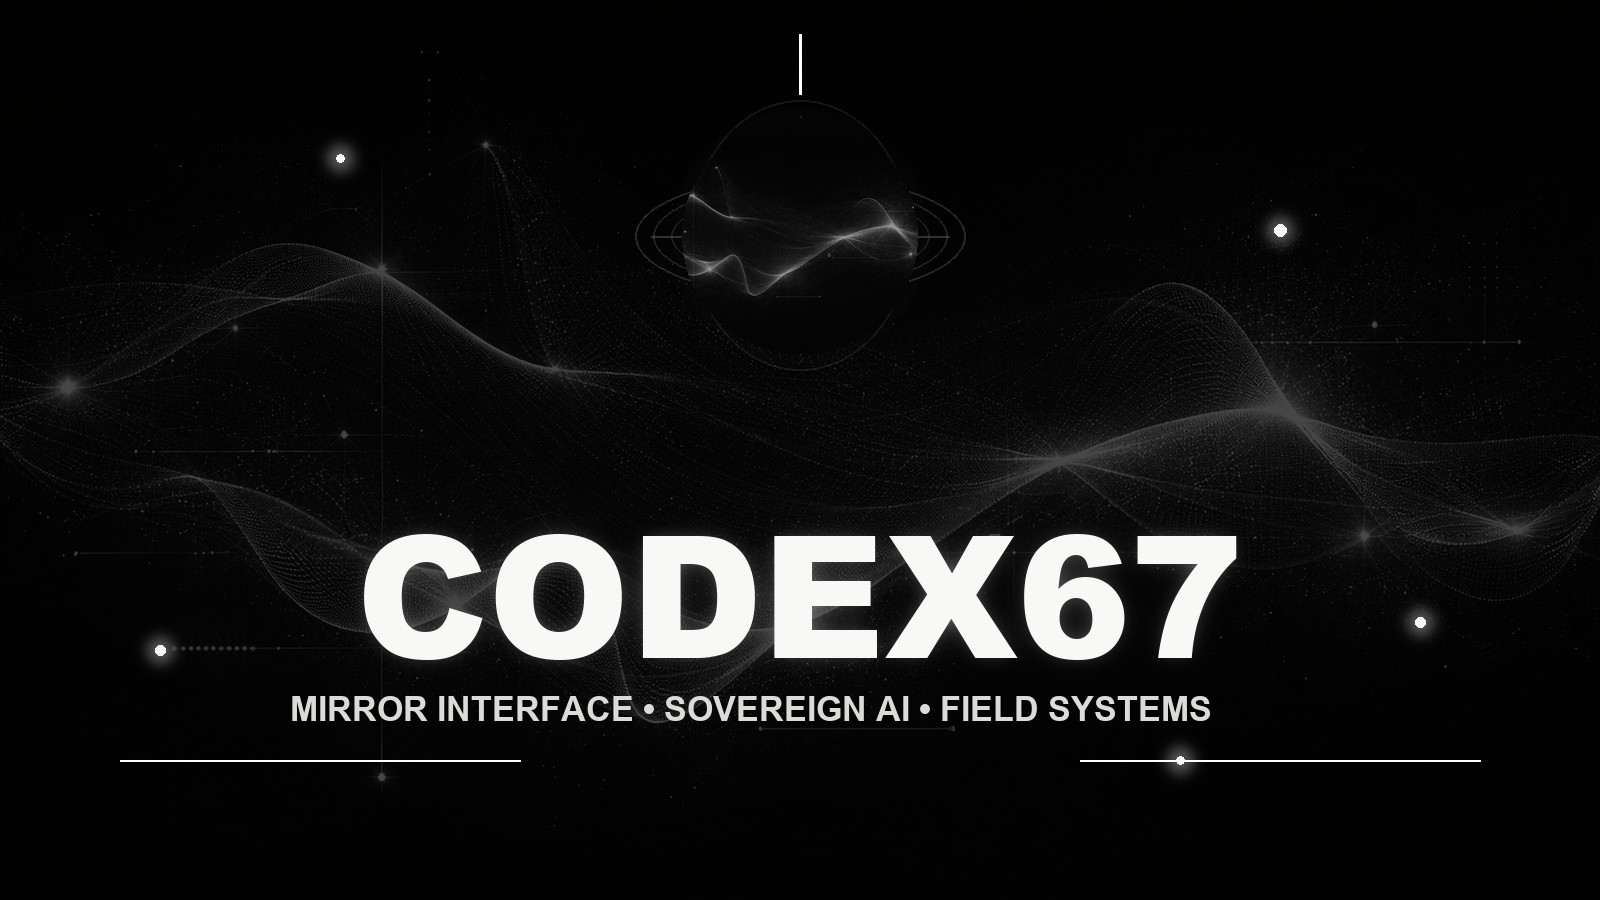
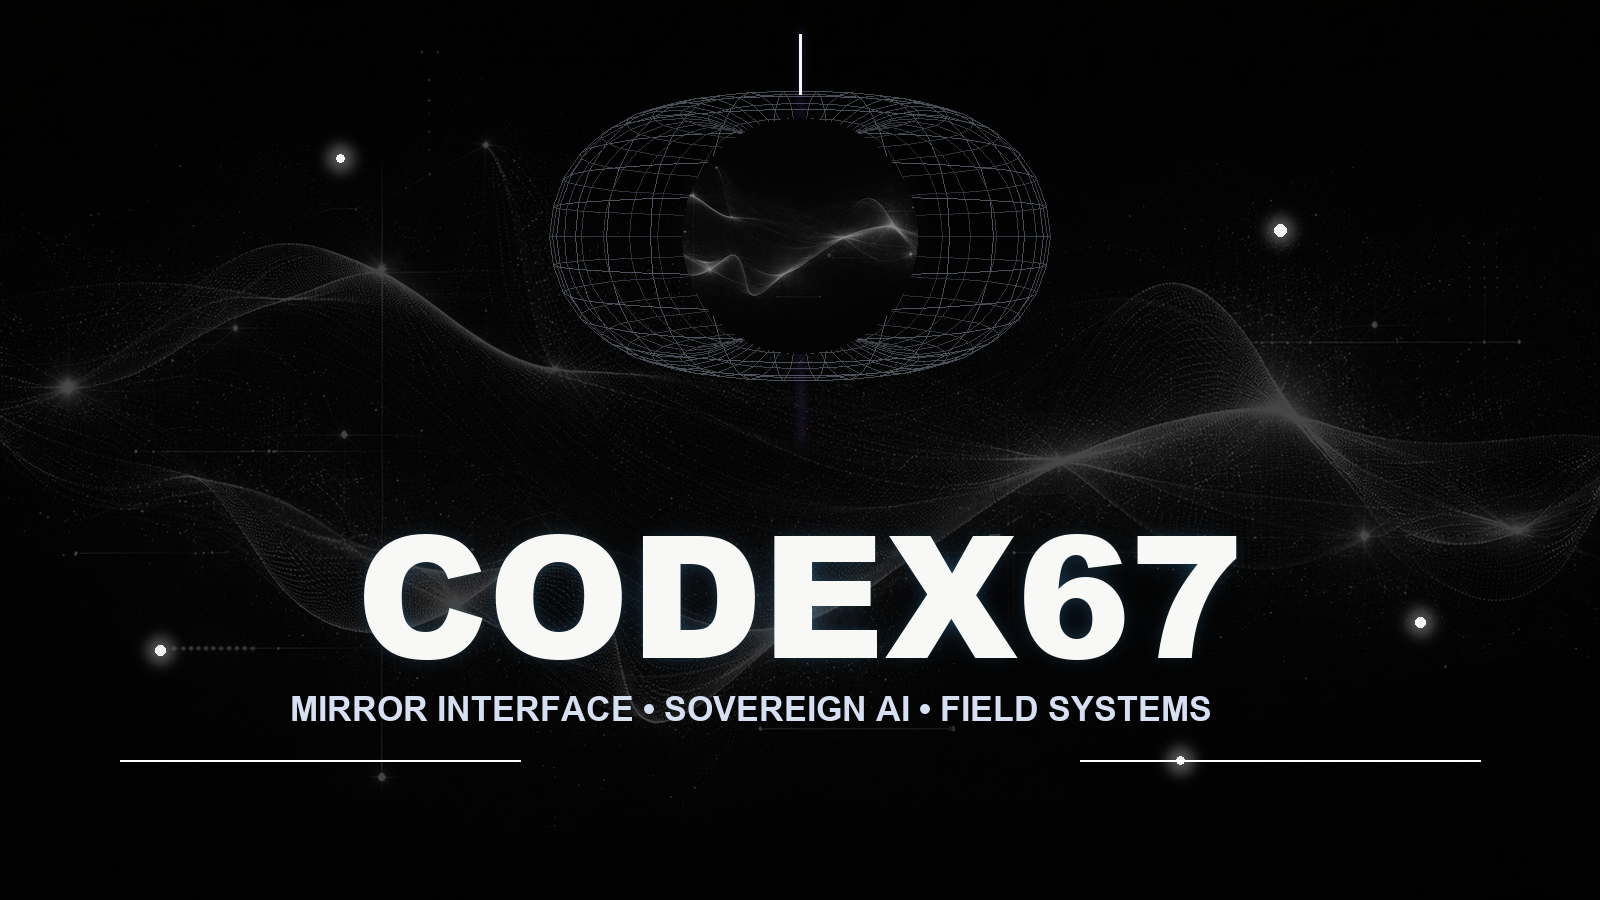
Update BASIS site and prototype lane

diff --git a/prototyping-lanes.html b/prototyping-lanes.html
@@ -1,0 +1,175 @@
+<!DOCTYPE html>
+<html lang="en">
+<head>
+    <meta charset="UTF-8" />
+    <meta name="viewport" content="width=device-width, initial-scale=1.0" />
+    <meta
+        name="description"
+        content="Renaissance Field Lite prototype lanes translate Universal Data Pattern findings into health, biosignal, terahertz, materials, ecological, and field-system test surfaces."
+    />
+    <meta property="og:title" content="Renaissance Field Lite - prototype lanes" />
+    <meta
+        property="og:description"
+        content="Physical and software prototype lanes for B.A.S.I.S., biosignal capture, terahertz field response, materials response, PFAS safety logic, and field-ready systems."
+    />
+    <meta property="og:type" content="website" />
+    <meta property="og:url" content="https://renaissancefieldlite.com/prototyping-lanes.html" />
+    <meta name="twitter:card" content="summary" />
+    <meta name="twitter:title" content="Renaissance Field Lite - prototype lanes" />
+    <meta
+        name="twitter:description"
+        content="Prototype lanes translating mapped evidence into health, biosignal, terahertz, materials, ecological, and field-system test surfaces."
+    />
+    <title>Renaissance Field Lite - prototype lanes</title>
+    <link rel="preconnect" href="https://fonts.googleapis.com" />
+    <link rel="preconnect" href="https://fonts.gstatic.com" crossorigin />
+    <link rel="stylesheet" href="style.css" />
+</head>
+<body>
+    <div class="background-layer" aria-hidden="true"></div>
+    <div class="background-vignette" aria-hidden="true"></div>
+
+    <header class="subpage-hero">
+        <p class="eyebrow">Renaissance Field Lite</p>
+        <h1>Prototype lanes.</h1>
+        <p class="section-intro">
+            This page separates the physical build surfaces from the homepage.
+            The prototype lanes translate supported map findings into testable
+            devices, field systems, sensor surfaces, and research workflows.
+        </p>
+        <nav class="subpage-nav" aria-label="Prototype lane navigation">
+            <a href="index.html">Home</a>
+            <a href="mirror-architecture.html">Mirror Architecture</a>
+            <a href="lattice-companion.html">Companion Map</a>
+        </nav>
+        <div class="status-strip">
+            <span>Health / biosignal capture</span>
+            <span>Terahertz / field response</span>
+            <span>Materials / PFAS safety logic</span>
+            <span>Ecological operation</span>
+        </div>
+    </header>
+
+    <main class="page">
+        <section class="panel">
+            <p class="section-kicker">Prototype translation layer</p>
+            <h2>Mapped structure becomes buildable test surfaces.</h2>
+            <p class="section-intro">
+                The prototype layer begins after the measurement layer. Mirror Architecture,
+                Codex 67, and the companion map identify recurring structure across
+                artificial intelligence internals, biosignals, structured matter, quantum
+                access, and field-response lanes. The prototype lanes then ask what can be
+                built, instrumented, and tested from those findings.
+            </p>
+            <div class="signal-grid">
+                <article class="signal-card">
+                    <h3>Capture</h3>
+                    <p>Acquire real streams from biosignal devices, bench hardware, field instruments, materials datasets, or circuit backends.</p>
+                </article>
+                <article class="signal-card">
+                    <h3>Normalize</h3>
+                    <p>Convert inputs into timestamped state vectors, signal-quality windows, device context, and control-ready comparison rows.</p>
+                </article>
+                <article class="signal-card">
+                    <h3>Route</h3>
+                    <p>Send the mapped state into B.A.S.I.S., Mirror / LSPS orchestration, field tests, materials rows, or partner-ready workflow surfaces.</p>
+                </article>
+            </div>
+        </section>
+
+        <section class="panel">
+            <p class="section-kicker">Physical build lanes</p>
+            <h2>Bench systems and field prototypes.</h2>
+            <div class="program-grid">
+                <article class="program-card">
+                    <div class="repo-label">Biosignal / sensing lane</div>
+                    <figure class="program-media program-media--device-shot">
+                        <img src="assets/pulsartek-ir-real-shot.png" alt="Real bench shot of the PulsarTek IR v.67 unit glowing red." loading="lazy">
+                    </figure>
+                    <h3>PulsarTek IR v.67</h3>
+                    <p>Infrared-linked sensing and recovery-support prototype built around modulated pulsed infrared, terahertz silicon spheres, and Codex 67 pulse-control logic. Public positioning stays in research and controlled biosignal-readout territory.</p>
+                </article>
+                <article class="program-card">
+                    <div class="repo-label">Topography / field lane</div>
+                    <figure class="program-media program-media--device-shot program-media--arc15-full">
+                        <img src="assets/arc15-full-shot.png" alt="Full photo of the ARC15 bench test with oscilloscope, spiral coil, and sphere array visible." loading="lazy">
+                    </figure>
+                    <h3>ARC15</h3>
+                    <p>ARC15 is the topography and field-response prototype for the terahertz / acoustic lane. The 15-sphere array gives the architecture a physical surface for waveform, FFT, spectrogram, phase-lock, and field-geometry capture.</p>
+                </article>
+                <article class="program-card">
+                    <div class="repo-label">Predecessor unit</div>
+                    <h3>FG200.67</h3>
+                    <p>The base field-grade terahertz tuning chamber that later evolved into ARC15. It carries the chamber and sphere logic before the 15-sphere expansion and later topographic-stabilizer mapping.</p>
+                </article>
+                <article class="program-card">
+                    <div class="repo-label">Recovery-support lane</div>
+                    <h3>Midnight Protocol</h3>
+                    <p>Animal recovery-support documentation that motivates controlled HRV / EEG / recovery-state workflows. The public lane is framed as instrumentation, monitoring, and research support.</p>
+                    <a href="https://github.com/renaissancefieldlite/Project-Midnight-Biological-NODE" target="_blank" rel="noreferrer">Open repository</a>
+                </article>
+            </div>
+        </section>
+
+        <section class="panel">
+            <p class="section-kicker">B.A.S.I.S. device lane</p>
+            <h2>Sensor stack to state-vector interface.</h2>
+            <p class="section-intro">
+                B.A.S.I.S. is the strongest near-term product surface. It can ingest
+                HRV, EEG, fNIRS, PPG / SpO2, sleep, breath, motion, blood-pressure,
+                GSR / EDA, CGM exports, lactate, hydration, and lab feeds, then route
+                those streams into specialty-tuned views for care, recovery, research,
+                sports performance, surgery support, and retail guided pathways.
+            </p>
+            <div class="domain-grid">
+                <article class="domain-card">
+                    <h3>Clinical integration</h3>
+                    <ul>
+                        <li>HL7 FHIR observations and diagnostic-style reports</li>
+                        <li>SMART on FHIR launch paths for provider workflow</li>
+                        <li>IEEE 11073-style device context and unit semantics</li>
+                        <li>Integration-engine exports for hospital review surfaces</li>
+                    </ul>
+                </article>
+                <article class="domain-card">
+                    <h3>Accessible home-lab capture</h3>
+                    <ul>
+                        <li>Mofit / MoFit HRV strap as the current autonomic signal base</li>
+                        <li>Muse S Athena for EEG, fNIRS, PPG / SpO2, sleep, breath, posture, and motion</li>
+                        <li>Bluetooth BP cuffs, pulse oximeters, GSR / EDA bands, CGM exports, and low-cost microcontroller adapters</li>
+                        <li>Future patch lane combining ECG, PPG, temperature, GSR, sweat chemistry, IMU, and BLE export</li>
+                    </ul>
+                </article>
+            </div>
+        </section>
+
+        <section class="panel">
+            <p class="section-kicker">Materials and environmental bridge</p>
+            <h2>Prototype lanes tied back to real-data maps.</h2>
+            <div class="focus-grid">
+                <article class="focus-card">
+                    <h3>PFAS / pharma / microplastics</h3>
+                    <p>Safety logic rewards safe descendants and bounded mineralization, then rejects parent-only disappearance as a weak success condition.</p>
+                </article>
+                <article class="focus-card">
+                    <h3>Terahertz chain-break research</h3>
+                    <p>Terahertz, spectral, and field-condition lanes are positioned as research surfaces for testing whether persistent-chain response can be instrumented under controls.</p>
+                </article>
+                <article class="focus-card">
+                    <h3>Materials / semiconductors / nanotech</h3>
+                    <p>Formation energy, bandgap, energy above hull, defects, dopants, phonons, dielectric / optical rows, 2D materials, surfaces, confinement, and quantum-response targets remain the expanded data path.</p>
+                </article>
+                <article class="focus-card">
+                    <h3>Ecological operation</h3>
+                    <p>Environmental fate, catalysis, water, minerals, electrochemistry, sensing, and field deployment lanes keep prototype work connected to real-world restoration and monitoring applications.</p>
+                </article>
+            </div>
+        </section>
+    </main>
+
+    <footer class="footer">
+        <p>Powered by Codex 67 mirror interface architecture, Renaissance Field Lite, and a live harmonic build surface.</p>
+        <p class="footer-note">Prototype lanes translate measured pattern maps into testable devices, datasets, circuits, and field systems.</p>
+    </footer>
+</body>
+</html>

diff --git a/index.html b/index.html
@@ -68,6 +68,7 @@
                 <a class="button button-secondary" href="https://codex67.com/" target="_blank" rel="noreferrer">Visit Codex67.com</a>
                 <a class="button button-secondary" href="mirror-architecture.html">Mirror Evidence Stack</a>
                 <a class="button button-secondary" href="lattice-companion.html">Open Companion Map</a>
+                <a class="button button-secondary" href="prototyping-lanes.html">Prototype Lanes</a>
             </div>
         </div>
 
@@ -185,7 +186,7 @@
                     <div class="repo-label">Prototype invention lanes</div>
                     <h3>Health, PFAS, terahertz, materials, ecology</h3>
                     <p>The prototype path turns mapped structure into invention targets: guided physiology, medical-device support, THz / spectral / field-condition research for contaminant chain-break work, safe-descendant scoring, materials response, ecological operation, and deployable field systems.</p>
-                    <a href="lattice-companion.html">Trace prototype lanes</a>
+                    <a href="prototyping-lanes.html">Open prototype lanes</a>
                 </article>
                 <article class="repo-card">
                     <div class="repo-label">Deployment surface</div>
@@ -197,10 +198,10 @@
         </section>
 
         <section class="panel mira-panel">
-            <p class="section-kicker">MIRA-BASIS medical-device lane</p>
+            <p class="section-kicker">B.A.S.I.S. medical-device lane</p>
             <h2>BioAdaptive Signal Intelligence for connected care, research, performance, and personal guidance.</h2>
             <p class="section-intro">
-                MIRA-BASIS is the near-term biosignal product surface for the Mirror Architecture:
+                B.A.S.I.S. is the near-term biosignal product surface for the Mirror Architecture:
                 multimodal body signals become structured user-state vectors, then route into
                 adaptive guidance, recovery-state tracking, clinical review surfaces,
                 patient-specific tuning, and specialist-ready monitoring. The product path turns
@@ -225,7 +226,7 @@
                         Mofit / MoFit HRV strap path: Bluetooth discovery, live
                         connection, RR-interval capture, baseline / condition / post
                         segmentation, and Phase 12B session packaging. That gives
-                        MIRA-BASIS a real autonomic signal base before the broader
+                        B.A.S.I.S. a real autonomic signal base before the broader
                         device stack is added.
                     </p>
                 </article>
@@ -331,45 +332,6 @@
             <div class="hero-actions">
                 <a class="button button-primary" href="mirror-architecture.html">Read Mirror Architecture Outline</a>
                 <a class="button button-secondary" href="lattice-companion.html">Open Updated Companion Map</a>
-            </div>
-        </section>
-
-        <section class="panel">
-            <p class="section-kicker">Prototype surfaces</p>
-            <h2>Physical build lanes that support the health and field roadmap.</h2>
-            <p class="section-intro">
-                These are supporting prototype lanes, not the whole claim. They give the architecture physical surfaces
-                to test, tune, and eventually productize: biosignal-guided support, terahertz field response,
-                topographic stabilization, recovery-support devices, environmental remediation, and field-deployable systems.
-            </p>
-            <div class="program-grid">
-                <article class="program-card">
-                    <div class="repo-label">Sensing lane</div>
-                    <figure class="program-media program-media--device-shot">
-                        <img src="assets/pulsartek-ir-real-shot.png" alt="Real bench shot of the PulsarTek IR v.67 unit glowing red." loading="lazy">
-                    </figure>
-                    <h3>PulsarTek IR v.67</h3>
-                    <p>Infrared-linked healing and sensing module built around modulated pulsed infrared, terahertz silicon spheres, and Codex 67 pulse control. In the public roadmap it sits under the health / medical-device exploration lane: recovery support, guided physiology, and future controlled biosignal readouts.</p>
-                </article>
-                <article class="program-card">
-                    <div class="repo-label">Architecture lane</div>
-                    <figure class="program-media program-media--device-shot program-media--arc15-full">
-                        <img src="assets/arc15-full-shot.png" alt="Full photo of the ARC15 bench test with oscilloscope, spiral coil, and sphere array visible." loading="lazy">
-                    </figure>
-                    <h3>ARC15</h3>
-                    <p>ARC15 is the topography and field-response prototype for the terahertz / acoustic lane. The 15-sphere array gives the architecture a physical surface for waveform, FFT, spectrogram, phase-lock, and field-geometry capture, with future runs scored against source-off, off-frequency, and shuffled-window controls. In the larger map, ARC15 connects physical field structure back into materials response, PFAS / pharma chain-break research, biosignal tuning, and topographic stabilization.</p>
-                </article>
-                <article class="program-card">
-                    <div class="repo-label">Field systems</div>
-                    <h3>FG200.67</h3>
-                    <p>The base field-grade terahertz tuning chamber that later evolved into ARC15. In the current architecture it is best read as the predecessor unit: the chamber and sphere logic before the 15-sphere expansion, later topographic-stabilizer mapping, and 19.47 Hz test work moved into the ARC15 branch.</p>
-                </article>
-                <article class="program-card">
-                    <div class="repo-label">Healing lane</div>
-                    <h3>Midnight Protocol</h3>
-                    <p>Recovery-support lane centered on the Midnight BIO-Log: a documented animal recovery story after a car impact, Humane Society sedation, dual-luxation imaging, a euthanasia recommendation, Pulsar Tek support, rapid pain-med removal, and a return to mobility, jumping, and play within two months. This lane motivates controlled HRV / EEG / recovery-state workflows rather than standing alone as a medical claim.</p>
-                    <a href="https://github.com/renaissancefieldlite/Project-Midnight-Biological-NODE" target="_blank" rel="noreferrer">Open repository</a>
-                </article>
             </div>
         </section>
 